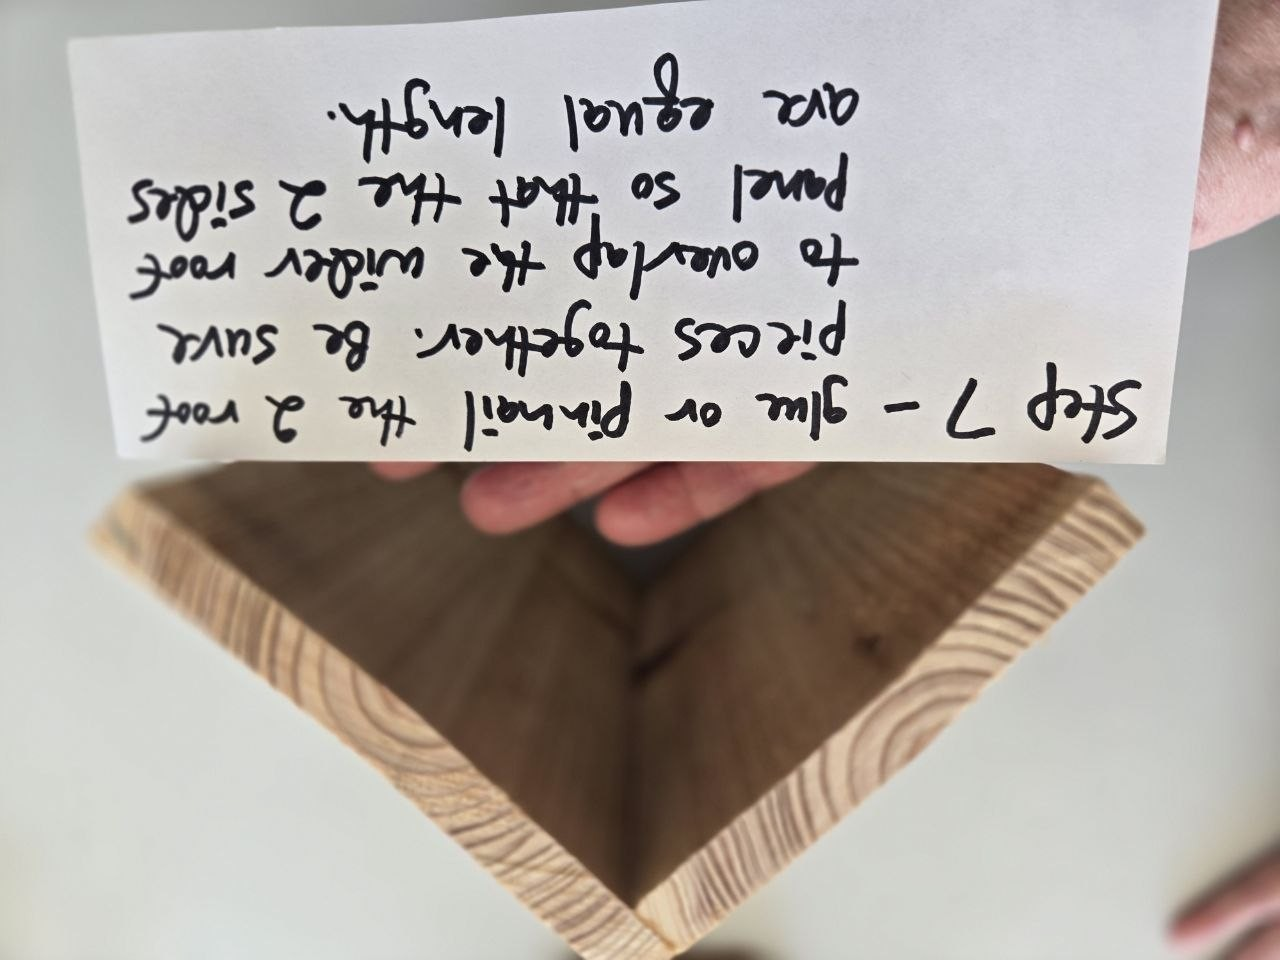
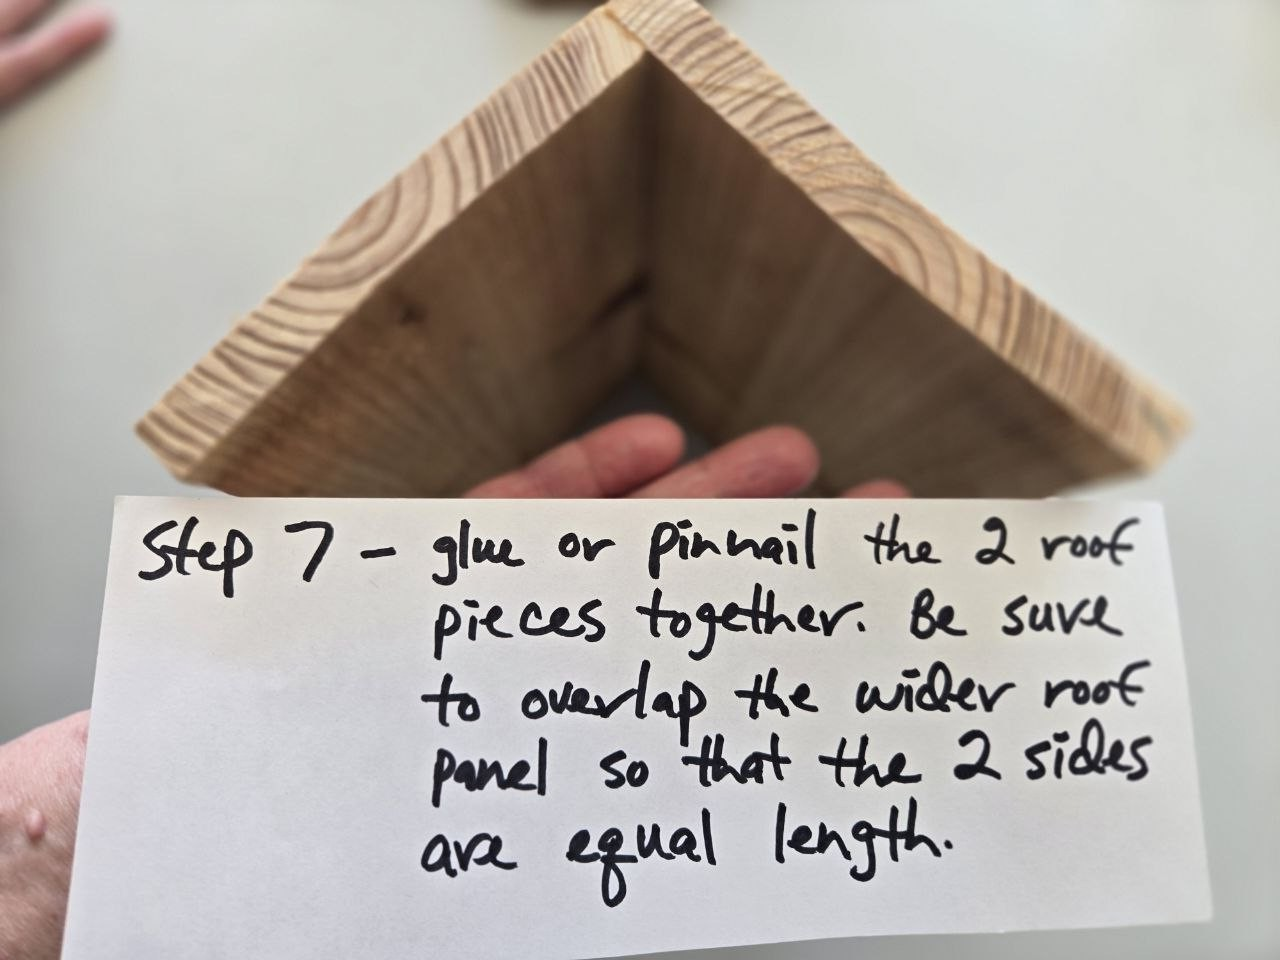
Fix bird feeder image order and rotations

diff --git a/pages/log-cabin-bird-feeder-build.html b/pages/log-cabin-bird-feeder-build.html
@@ -51,15 +51,15 @@
     <section class="section">
       <h2>Cut Steps</h2>
       <div class="build-grid">
-        <div class="build-card"><img src="/assets/images/log-cabin-bird-feeder-build/log-cabin-bird-feeder-1.jpg" alt="Bird feeder cut step 1"><div class="content"><strong>Cut step 1</strong><p>Starting the cut sequence.</p></div></div>
-        <div class="build-card"><img src="/assets/images/log-cabin-bird-feeder-build/log-cabin-bird-feeder-2.jpg" alt="Bird feeder cut step 2"><div class="content"><strong>Cut step 2</strong><p>Continuing the layout and cutting flow.</p></div></div>
-        <div class="build-card"><img src="/assets/images/log-cabin-bird-feeder-build/log-cabin-bird-feeder-3.jpg" alt="Bird feeder cut step 3"><div class="content"><strong>Cut step 3</strong><p>More progress on the cut pieces.</p></div></div>
-        <div class="build-card"><img src="/assets/images/log-cabin-bird-feeder-build/log-cabin-bird-feeder-4.jpg" alt="Bird feeder cut step 4"><div class="content"><strong>Cut step 4</strong><p>Real workshop detail from the cutting stage.</p></div></div>
-        <div class="build-card"><img src="/assets/images/log-cabin-bird-feeder-build/log-cabin-bird-feeder-5.jpg" alt="Bird feeder cut step 5"><div class="content"><strong>Cut step 5</strong><p>The feeder pieces are really taking shape here.</p></div></div>
-        <div class="build-card"><img src="/assets/images/log-cabin-bird-feeder-build/log-cabin-bird-feeder-6.jpg" alt="Bird feeder cut step 6"><div class="content"><strong>Cut step 6</strong><p>Another useful angle in the cut sequence.</p></div></div>
-        <div class="build-card"><img src="/assets/images/log-cabin-bird-feeder-build/log-cabin-bird-feeder-7.jpg" alt="Bird feeder cut step 7"><div class="content"><strong>Cut step 7</strong><p>Last step in the cut stage before assembly starts.</p></div></div>
-        <div class="build-card"><img src="/assets/images/log-cabin-bird-feeder-build/log-cabin-bird-feeder-8.jpg" alt="Bird feeder fun cut photo 1"><div class="content"><strong>Fun cut pic 1</strong><p>A little extra personality from the project.</p></div></div>
-        <div class="build-card"><img src="/assets/images/log-cabin-bird-feeder-build/log-cabin-bird-feeder-9.jpg" alt="Bird feeder fun cut photo 2"><div class="content"><strong>Fun cut pic 2</strong><p>Another fun workshop moment before assembly.</p></div></div>
+        <div class="build-card"><img src="/assets/images/log-cabin-bird-feeder-build/log-cabin-bird-feeder-2.jpg" alt="Bird feeder cut step 1"><div class="content"><strong>Cut step 1</strong><p>Starting the cut sequence.</p></div></div>
+        <div class="build-card"><img src="/assets/images/log-cabin-bird-feeder-build/log-cabin-bird-feeder-3.jpg" alt="Bird feeder cut step 2"><div class="content"><strong>Cut step 2</strong><p>Continuing the layout and cutting flow.</p></div></div>
+        <div class="build-card"><img src="/assets/images/log-cabin-bird-feeder-build/log-cabin-bird-feeder-4.jpg" alt="Bird feeder cut step 3"><div class="content"><strong>Cut step 3</strong><p>More progress on the cut pieces.</p></div></div>
+        <div class="build-card"><img src="/assets/images/log-cabin-bird-feeder-build/log-cabin-bird-feeder-5.jpg" alt="Bird feeder cut step 4"><div class="content"><strong>Cut step 4</strong><p>Real workshop detail from the cutting stage.</p></div></div>
+        <div class="build-card"><img src="/assets/images/log-cabin-bird-feeder-build/log-cabin-bird-feeder-6.jpg" alt="Bird feeder cut step 5"><div class="content"><strong>Cut step 5</strong><p>The feeder pieces are really taking shape here.</p></div></div>
+        <div class="build-card"><img src="/assets/images/log-cabin-bird-feeder-build/log-cabin-bird-feeder-7.jpg" alt="Bird feeder cut step 6"><div class="content"><strong>Cut step 6</strong><p>Another useful angle in the cut sequence.</p></div></div>
+        <div class="build-card"><img src="/assets/images/log-cabin-bird-feeder-build/log-cabin-bird-feeder-8.jpg" alt="Bird feeder cut step 7"><div class="content"><strong>Cut step 7</strong><p>Last step in the cut stage before assembly starts.</p></div></div>
+        <div class="build-card"><img src="/assets/images/log-cabin-bird-feeder-build/log-cabin-bird-feeder-9.jpg" alt="Bird feeder fun cut photo 1"><div class="content"><strong>Fun cut pic 1</strong><p>A little extra personality from the project.</p></div></div>
+        <div class="build-card"><img src="/assets/images/log-cabin-bird-feeder-build/log-cabin-bird-feeder-1.jpg" alt="Bird feeder fun cut photo 2"><div class="content"><strong>Fun cut pic 2</strong><p>Another fun workshop moment before assembly.</p></div></div>
       </div>
     </section>
 
@@ -80,8 +80,8 @@
     <section class="section">
       <h2>Finished Bird Feeder</h2>
       <div class="build-grid">
-        <div class="build-card"><img src="/assets/images/log-cabin-bird-feeder-build/log-cabin-bird-feeder-18.jpg" alt="Finished bird feeder"><div class="content"><strong>Finished feeder</strong><p>The finished rustic bird feeder ready for the yard.</p></div></div>
-        <div class="build-card"><img src="/assets/images/log-cabin-bird-feeder-build/log-cabin-bird-feeder-19.jpg" alt="Finished bird feeder detail"><div class="content"><strong>Finished feeder detail</strong><p>One more finished look to close out the page.</p></div></div>
+        <div class="build-card"><img src="/assets/images/log-cabin-bird-feeder-build/log-cabin-bird-feeder-19.jpg" alt="Finished bird feeder"><div class="content"><strong>Finished feeder</strong><p>The finished rustic bird feeder ready for the yard.</p></div></div>
+        <div class="build-card"><img src="/assets/images/log-cabin-bird-feeder-build/log-cabin-bird-feeder-18.jpg" alt="Finished bird feeder detail"><div class="content"><strong>Finished feeder detail</strong><p>One more finished look to close out the page.</p></div></div>
       </div>
     </section>
   </main>

diff --git a/index.html b/index.html
@@ -101,7 +101,7 @@
           </div>
         </div>
         <div>
-          <img src="/assets/images/log-cabin-bird-feeder-build/log-cabin-bird-feeder-18.jpg" alt="Finished rustic log cabin style bird feeder">
+          <img src="/assets/images/log-cabin-bird-feeder-build/log-cabin-bird-feeder-19.jpg" alt="Finished rustic log cabin style bird feeder">
         </div>
       </div>
     </section>
